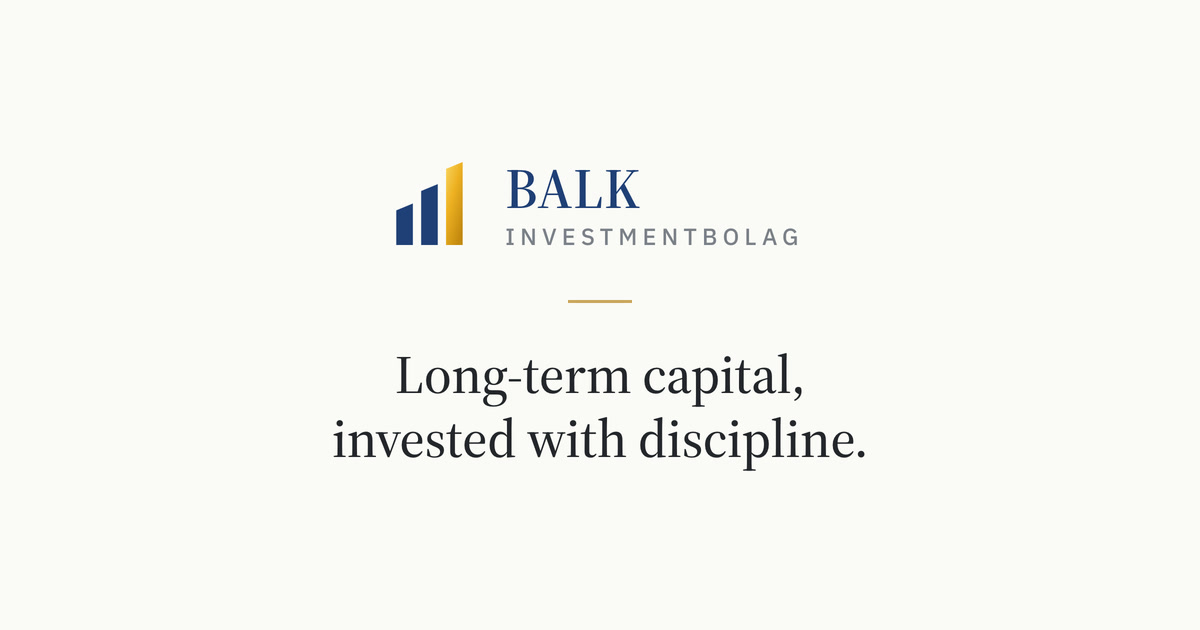
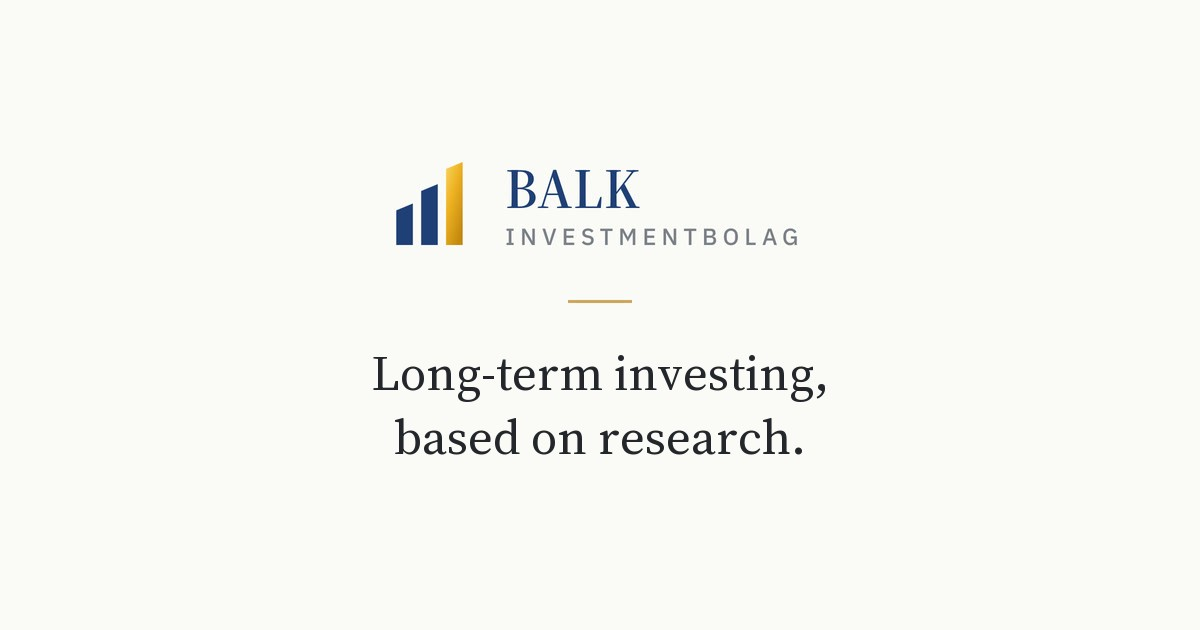
Home page copy rewritten in the firm's voice, without "discipline"
The firm is the subject throughout, not "we". The tone is academic and
analytical, and slogan words are gone. New headline: "Long-term investing,
based on research." The research introduction is general, so it holds as
new studies are added. The share image and preview texts carry the new
headline. The legal footer text is unchanged.

Changed region(s): [[0.2775, 0.5429, 0.7092, 0.754], [0.37, 0.3619, 0.4008, 0.3921]]

diff --git a/index.html b/index.html
@@ -4,20 +4,20 @@
   <meta charset="UTF-8">
   <meta name="viewport" content="width=device-width, initial-scale=1">
   <title>Balk Investmentbolag</title>
-  <meta name="description" content="Balk Investmentbolag is a Swedish partnership in Umeå whose co-owners invest their own capital together, in a concentrated portfolio of listed companies.">
+  <meta name="description" content="Balk Investmentbolag is a partnership in Umeå whose co-owners invest their own capital together: a concentrated portfolio of listed companies, selected through fundamental analysis and held for the long term.">
   <meta name="theme-color" content="#fbfaf8">
   <meta name="color-scheme" content="light">
   <meta property="og:type" content="website">
   <meta property="og:site_name" content="Balk Investmentbolag">
   <meta property="og:title" content="Balk Investmentbolag">
-  <meta property="og:description" content="Long-term capital, invested with discipline. A Swedish partnership in Umeå whose co-owners invest their own capital together.">
+  <meta property="og:description" content="Long-term investing, based on research. A partnership in Umeå whose co-owners invest their own capital together.">
   <meta property="og:locale" content="en_GB">
   <link rel="canonical" href="https://balkinvestmentbolag.se/">
   <meta property="og:url" content="https://balkinvestmentbolag.se/">
   <meta property="og:image" content="https://balkinvestmentbolag.se/assets/share.jpg">
   <meta property="og:image:width" content="1200">
   <meta property="og:image:height" content="630">
-  <meta property="og:image:alt" content="Balk Investmentbolag: long-term capital, invested with discipline.">
+  <meta property="og:image:alt" content="Balk Investmentbolag: long-term investing, based on research.">
   <meta name="twitter:card" content="summary_large_image">
   <link rel="icon" href="favicon/balk-favicon.svg" type="image/svg+xml">
   <link rel="icon" href="favicon/balk-favicon-32.png" sizes="32x32" type="image/png">
@@ -67,8 +67,8 @@
     <section id="top" class="hero">
       <div class="hero-copy">
         <p class="kicker">Founded 2026 &middot; Umeå</p>
-        <h1>Long-term capital, invested with discipline.</h1>
-        <p class="lede">Balk Investmentbolag is a Swedish partnership whose co-owners invest their own capital together: a concentrated portfolio of listed companies, held with patience and reported openly to every co-owner.</p>
+        <h1>Long-term investing, based on research.</h1>
+        <p class="lede">Balk Investmentbolag is a partnership in Umeå whose co-owners invest their own capital together. The firm holds a concentrated portfolio of listed companies, selected through fundamental analysis and held for years.</p>
         <a class="button button-gold" href="#platform">Watch the film</a>
       </div>
       <div class="hero-photo">
@@ -79,8 +79,8 @@
     <section id="platform" class="section">
       <p class="kicker">The platform</p>
       <div class="rule"></div>
-      <h2>Built in-house, for disciplined investing.</h2>
-      <p>Every holding, decision and year-end close runs through a platform we built ourselves, from the first figures of research to the annual report each co-owner receives.</p>
+      <h2>Every analysis and decision in one place.</h2>
+      <p>The firm's work runs on a platform developed in-house: the research on each company, every decision and its reasoning, the portfolio's daily value and risk, and the annual report to the co-owners.</p>
       <figure class="film">
         <div class="film-frame">
           <video controls playsinline preload="none" poster="assets/film/poster.jpg" aria-label="Film: the Balk platform at work" aria-describedby="film-caption">
@@ -93,12 +93,12 @@
             <svg viewBox="0 0 24 24" aria-hidden="true" focusable="false"><path d="M8 5.2v13.6L19 12z" /></svg>
           </button>
         </div>
-        <figcaption id="film-caption">Shown on a demonstration firm: its owners and positions are invented, the market prices are real.</figcaption>
+        <figcaption id="film-caption">The film shows a demonstration firm: its owners and holdings are invented, but the market prices are real.</figcaption>
       </figure>
       <div class="points points-three">
         <div>
           <h3>Portfolio</h3>
-          <p>Every holding valued daily in kronor, and the return measured against the market's indices.</p>
+          <p>Every holding valued daily in kronor, with the return measured against the market's indices.</p>
         </div>
         <div>
           <h3>Risk</h3>
@@ -106,19 +106,19 @@
         </div>
         <div>
           <h3>Research</h3>
-          <p>Financial statements, filings and ownership for listed companies, read with measures from published research.</p>
+          <p>Financial statements, filings and ownership for listed companies, analysed with measures from academic research.</p>
         </div>
         <div>
           <h3>Markets</h3>
-          <p>Indices, sectors, interest rates and inflation, with figures from central banks and statistics offices.</p>
+          <p>Indices, sectors, interest rates and inflation, with data from central banks and statistics agencies.</p>
         </div>
         <div>
           <h3>Decisions</h3>
-          <p>Every investment decision recorded with its reasoning, and reviewed against what happened.</p>
+          <p>Every decision recorded with its reasoning, then compared with what actually happened.</p>
         </div>
         <div>
           <h3>Reporting</h3>
-          <p>Ownership kept in units, a year-end close checked line by line, and a full annual report for every co-owner.</p>
+          <p>Each co-owner's share kept in units, the year-end close checked line by line, and a full annual report.</p>
         </div>
       </div>
     </section>
@@ -126,8 +126,8 @@
     <section id="research" class="section">
       <p class="kicker">Research</p>
       <div class="rule"></div>
-      <h2>Research and analysis.</h2>
-      <p>Studies of how a company's fundamentals relate to its stock returns. The first two are theses in economics.</p>
+      <h2>The research behind the approach.</h2>
+      <p>The firm's investment decisions rest on research, where questions are answered with data rather than assumptions. Studies are published here as they are completed.</p>
       <ul class="papers">
         <li class="paper-item">
           <p class="paper-meta">Master's thesis<br>2025</p>
@@ -141,7 +141,7 @@
           <p class="paper-meta">Bachelor's thesis<br>2024</p>
           <div>
             <h3><a href="research/renewable-energy-formula/">A Formula for Investing in the Renewable Energy Sector</a></h3>
-            <p>A screen for renewable energy stocks built on return on assets and revenue growth, tested on a six-stock portfolio from 2018 to 2023.</p>
+            <p>Which fundamentals predict renewable energy stock returns? Return on assets and revenue growth, tested on a six-stock portfolio from 2018 to 2023.</p>
             <a class="paper-link" href="research/renewable-energy-formula/">Read the summary</a>
           </div>
         </li>
@@ -151,25 +151,25 @@
     <section id="about" class="section">
       <p class="kicker">About</p>
       <div class="rule"></div>
-      <h2>Patient capital, plain reporting.</h2>
-      <p>Balk Investmentbolag is a simple partnership in Umeå, where a small group of co-owners invest their own capital together. We start from fundamental analysis, not short-term market moves, and ask one question of every company: would we want to own it even if the stock market closed for five years?</p>
-      <p>Each investment must pass two criteria: the quality of the business, then its price. Every decision is written down with its reasoning and what would prove it wrong, and reviewed over time.</p>
+      <h2>A partnership, not a fund.</h2>
+      <p>Balk Investmentbolag is a simple partnership, an enkelt bolag under Swedish law. The co-owners invest their own capital together, and the firm takes no money from anyone else.</p>
+      <p>The analysis concerns the business rather than the share price, and every company faces the same question: would it be worth owning even if the stock market closed for five years?</p>
       <div class="points points-four">
         <div>
           <h3>Long-term</h3>
-          <p>Holdings measured in years, not speculation.</p>
+          <p>Holdings measured in years, not quarters.</p>
         </div>
         <div>
           <h3>Concentrated</h3>
-          <p>A few holdings we understand well, not diversification for its own sake.</p>
+          <p>A few companies analysed in depth, rather than a little of everything.</p>
         </div>
         <div>
-          <h3>Accountable</h3>
-          <p>Every decision recorded with what would prove it wrong, and reviewed.</p>
+          <h3>Testable</h3>
+          <p>Every decision states what would prove it wrong, and is reviewed against the outcome.</p>
         </div>
         <div>
-          <h3>Transparent</h3>
-          <p>A full annual report to every co-owner, every year.</p>
+          <h3>Open</h3>
+          <p>Every co-owner receives a full annual report, every year.</p>
         </div>
       </div>
     </section>
@@ -178,8 +178,8 @@
       <div class="results-inner">
         <p class="kicker kicker-light">Results</p>
         <div class="rule"></div>
-        <h2>Full reporting, every year.</h2>
-        <p class="lede">Co-owners receive detailed results in our annual report. In brief:</p>
+        <h2>Measured against the market.</h2>
+        <p class="lede">The full figures are in the annual report. In brief:</p>
         <div class="stats">
           <div class="stat">
             <!-- From the FY2026 annual report: the portfolio's time-weighted return, 15 July - 30 September 2026. -->
@@ -195,7 +195,7 @@
             <div class="stat-label">Co-owners</div>
           </div>
         </div>
-        <p class="notice">Time-weighted return on the investments from 15 July to 30 September 2026, before the firm's running costs. OMXS30, a price index, rose 3.21% from the start on 13 July. Past returns are no guarantee of future returns.</p>
+        <p class="notice">Time-weighted return on the investments from 15 July to 30 September 2026, before the firm's running costs. For comparison, the OMXS30 price index rose 3.21% from the firm's start on 13 July. Past returns are no guarantee of future returns.</p>
       </div>
     </section>
 
@@ -204,7 +204,7 @@
       <p class="kicker">Contact</p>
       <div class="rule"></div>
       <h2>Get in touch.</h2>
-      <p>Questions about Balk Investmentbolag are welcome by e-mail.</p>
+      <p>Questions about the research or about Balk Investmentbolag are welcome by e-mail.</p>
       <a class="button button-gold" href="mailto:balkinvestmentbolag@gmail.com">balkinvestmentbolag@gmail.com</a>
     </section>
   </main>

diff --git a/research/renewable-energy-formula/index.html b/research/renewable-energy-formula/index.html
@@ -4,20 +4,20 @@
   <meta charset="UTF-8">
   <meta name="viewport" content="width=device-width, initial-scale=1">
   <title>A Formula for Investing in the Renewable Energy Sector · Balk Investmentbolag</title>
-  <meta name="description" content="A screen for renewable energy stocks built on return on assets and revenue growth, tested on a six-stock portfolio from 2018 to 2023.">
+  <meta name="description" content="Which fundamentals predict renewable energy stock returns? Return on assets and revenue growth, tested on a six-stock portfolio from 2018 to 2023.">
   <meta name="theme-color" content="#fbfaf8">
   <meta name="color-scheme" content="light">
   <link rel="canonical" href="https://balkinvestmentbolag.se/research/renewable-energy-formula/">
   <meta property="og:type" content="article">
   <meta property="og:site_name" content="Balk Investmentbolag">
   <meta property="og:title" content="A Formula for Investing in the Renewable Energy Sector">
-  <meta property="og:description" content="A screen for renewable energy stocks built on return on assets and revenue growth, tested on a six-stock portfolio from 2018 to 2023.">
+  <meta property="og:description" content="Which fundamentals predict renewable energy stock returns? Return on assets and revenue growth, tested on a six-stock portfolio from 2018 to 2023.">
   <meta property="og:locale" content="en_GB">
   <meta property="og:url" content="https://balkinvestmentbolag.se/research/renewable-energy-formula/">
   <meta property="og:image" content="https://balkinvestmentbolag.se/assets/share.jpg">
   <meta property="og:image:width" content="1200">
   <meta property="og:image:height" content="630">
-  <meta property="og:image:alt" content="Balk Investmentbolag: long-term capital, invested with discipline.">
+  <meta property="og:image:alt" content="Balk Investmentbolag: long-term investing, based on research.">
   <meta name="twitter:card" content="summary_large_image">
   <!-- The paper's record for Google Scholar. -->
   <meta name="citation_title" content="A Formula for Investing in the Renewable Energy Sector">

diff --git a/research/semiconductor-formula/index.html b/research/semiconductor-formula/index.html
@@ -17,7 +17,7 @@
   <meta property="og:image" content="https://balkinvestmentbolag.se/assets/share.jpg">
   <meta property="og:image:width" content="1200">
   <meta property="og:image:height" content="630">
-  <meta property="og:image:alt" content="Balk Investmentbolag: long-term capital, invested with discipline.">
+  <meta property="og:image:alt" content="Balk Investmentbolag: long-term investing, based on research.">
   <meta name="twitter:card" content="summary_large_image">
   <!-- The paper's record for Google Scholar. -->
   <meta name="citation_title" content="A Formula for Investing in the Semiconductor Industry: An Empirical Study Using Firm Fundamentals and System GMM">
